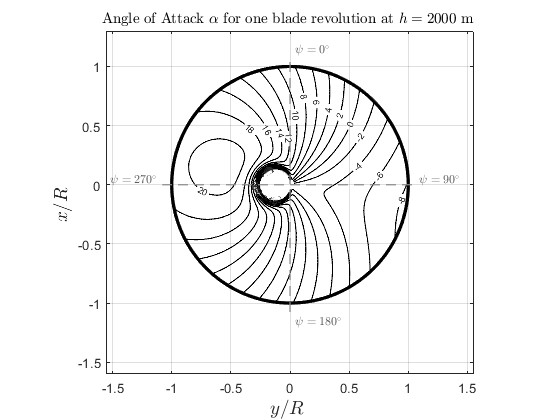
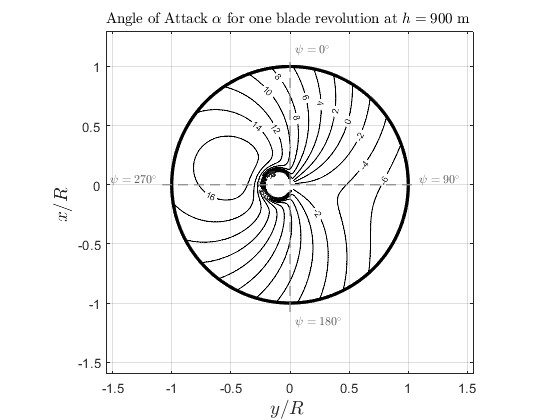
Ahora sí va

diff --git a/main.m b/main.m
@@ -129,7 +129,8 @@ for i = 1:length(altitudes)
     fprintf('  %-32s | %8.4f rad  (%7.3f deg)\n', 'theta_s  (long. cyclic)',   results_wf2(i).theta_s, rad2deg(results_wf2(i).theta_s));
     fprintf('  %-32s | %8.4f rad  (%7.3f deg)\n', 'theta_c  (lat. cyclic)',    results_wf2(i).theta_c, rad2deg(results_wf2(i).theta_c));
     fprintf('  %-32s | %8.4f rad  (%7.3f deg)\n', 'beta_0   (coning angle)',   results_wf2(i).beta_0,  rad2deg(results_wf2(i).beta_0));
-    fprintf('  %-32s | %8.4f rad  (%7.3f deg)\n', 'beta_c   (long. flapping)', results_wf2(i).beta_c,  rad2deg(results_wf2(i).beta_c));
+    fprintf('  %-32s | %8.4f rad  (%7.3f deg)\n', 'beta_s   (long. angle)',   results_wf2(i).beta_s,  rad2deg(results_wf2(i).beta_s));
+    fprintf('  %-32s | %8.4f rad  (%7.3f deg)\n', 'beta_c   (lat. flapping)', results_wf2(i).beta_c,  rad2deg(results_wf2(i).beta_c));
     fprintf('  %-32s | %8.4f rad  (%7.3f deg)\n', 'alpha_D  (disk tilt)',      results_wf2(i).alpha_D, rad2deg(results_wf2(i).alpha_D));
     fprintf('  %s\n', sep);
     fprintf('  %-32s | %10.2f N\n', 'T_D    (required axial thrust)', results_wf2(i).T_D);
@@ -144,10 +145,10 @@ end
 
 
 data_0m = [results_wf2(1).theta_0, results_wf2(1).theta_s, results_wf2(1).theta_c, ...
-           results_wf2(1).beta_0,  results_wf2(1).beta_c,  results_wf2(1).alpha_D] * (180/pi);
+           results_wf2(1).beta_0,  results_wf2(1).beta_s, results_wf2(1).beta_c,  results_wf2(1).alpha_D] * (180/pi);
 
 data_2000m = [results_wf2(2).theta_0, results_wf2(2).theta_s, results_wf2(2).theta_c, ...
-              results_wf2(2).beta_0,  results_wf2(2).beta_c,  results_wf2(2).alpha_D] * (180/pi);
+              results_wf2(2).beta_0,  results_wf2(2).beta_s, results_wf2(2).beta_c,  results_wf2(2).alpha_D] * (180/pi);
 
 plot_data = [data_0m; data_2000m];
 
@@ -161,7 +162,7 @@ grid on;
 
 
 legend({'$\theta_0$ (Collective)', '$\theta_s$ (Long. Cyclic)', '$\theta_c$ (Lat. Cyclic)', ...
-        '$\beta_0$ (Coning)', '$\beta_c$ (Long. Flapping)', '$\alpha_D$ (Disk Tilt)'}, ...
+        '$\beta_0$ (Coning)', '$\beta_c$ (Long. Flapping)', '$\beta_s$ (Lat. Flapping)', '$\alpha_D$ (Disk Tilt)'}, ...
         'Location', 'northeastoutside', 'Interpreter', 'latex', 'FontSize', 15);
 
 title('Advanced Trim', 'Interpreter', 'latex', 'FontSize', 15);

diff --git a/trim.m b/trim.m
@@ -70,10 +70,10 @@ M(3,4) = -B_matrix(3,3);
 Y(3)   = inflow_wind(3) - inflow_induced(3) - A_matrix(3,3)*beta_c;
 
 % eq 4
-M(4,1) = 0;                             % beta_0 no afecta
+M(4,1) = 0;                             
 M(4,2) = params.n_blades * (1/4) * params.rho * integral(@(x) params.c(x),0,1) * params.CL_alpha * params.Omega^2 * params.R^3 * (2/3 + mu_x^2);
 M(4,3) = params.n_blades * (1/4) * params.rho * integral(@(x) params.c(x),0,1) * params.CL_alpha * params.Omega^2 * params.R^3 * mu_x;
-M(4,4) = 0;                             % theta_c no afecta
+M(4,4) = 0;                             
 Y(4)   = Td - params.n_blades * (1/4) * params.rho * integral(@(x) params.c(x),0,1) * params.CL_alpha * params.Omega^2 * params.R^3*(lambda_x - lambda_i);
 
 sol = M \ Y;

diff --git a/workflow2_trim.m b/workflow2_trim.m
@@ -31,6 +31,7 @@ results.theta_0     = theta_0_init;
 results.theta_s     = theta_s_sol;
 results.theta_c     = theta_c_sol;
 results.beta_0      = beta_0_sol;
+results.beta_s      = beta_s;
 results.beta_c      = beta_c;
 results.beta_s      = beta_s;
 results.alpha_D     = alpha_D;